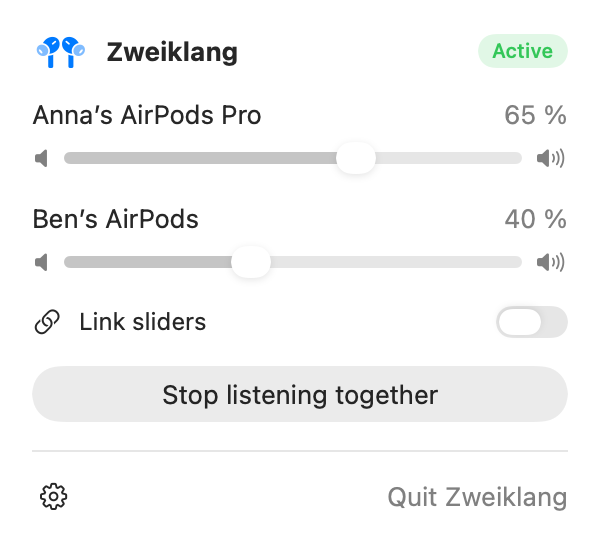
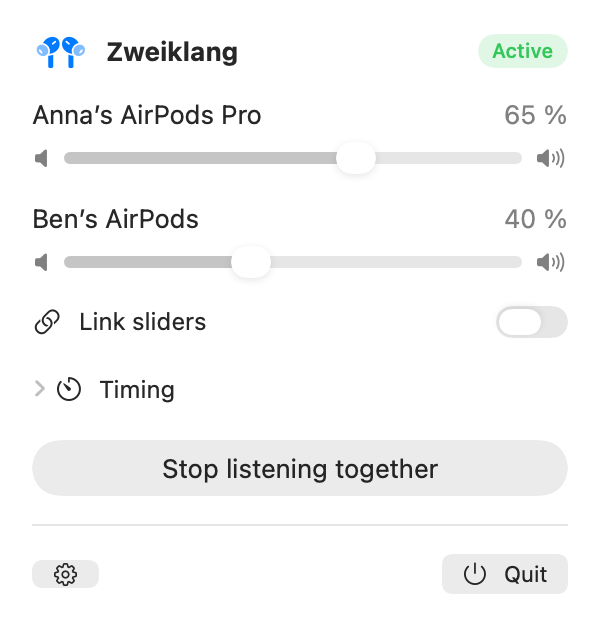
README: new screenshot, German summary for 1.3

diff --git a/README.md b/README.md
@@ -67,7 +67,7 @@ Details for contributors and AI agents: [AGENTS.md](AGENTS.md).
 
 ## Auf Deutsch
 
-Zweiklang spielt den Ton des Mac gleichzeitig auf zwei AirPods ab, mit einem eigenen Lautstärkeregler pro Paar. Weitere Kopfhörer oder Lautsprecher lassen sich dazunehmen; spielt einer zu früh, lässt er sich unter «Zeitabgleich» verzögern. Installieren: [Zweiklang.dmg](https://github.com/Mooned8/zweiklang/releases/latest/download/Zweiklang.dmg) laden, öffnen, Zweiklang in «Programme» ziehen und starten. Die App übernimmt die Systemsprache des Mac.
+Zweiklang spielt den Ton des Mac gleichzeitig auf zwei AirPods ab (oder auf mehr Kopfhörern und Lautsprechern), mit einem eigenen Lautstärkeregler pro Gerät und einem Zeitabgleich, damit alle gleichzeitig klingen. Weitere Kopfhörer oder Lautsprecher lassen sich dazunehmen; spielt einer zu früh, lässt er sich unter «Zeitabgleich» verzögern. Installieren: [Zweiklang.dmg](https://github.com/Mooned8/zweiklang/releases/latest/download/Zweiklang.dmg) laden, öffnen, Zweiklang in «Programme» ziehen und starten. Die App übernimmt die Systemsprache des Mac.
 
 ## License
 
